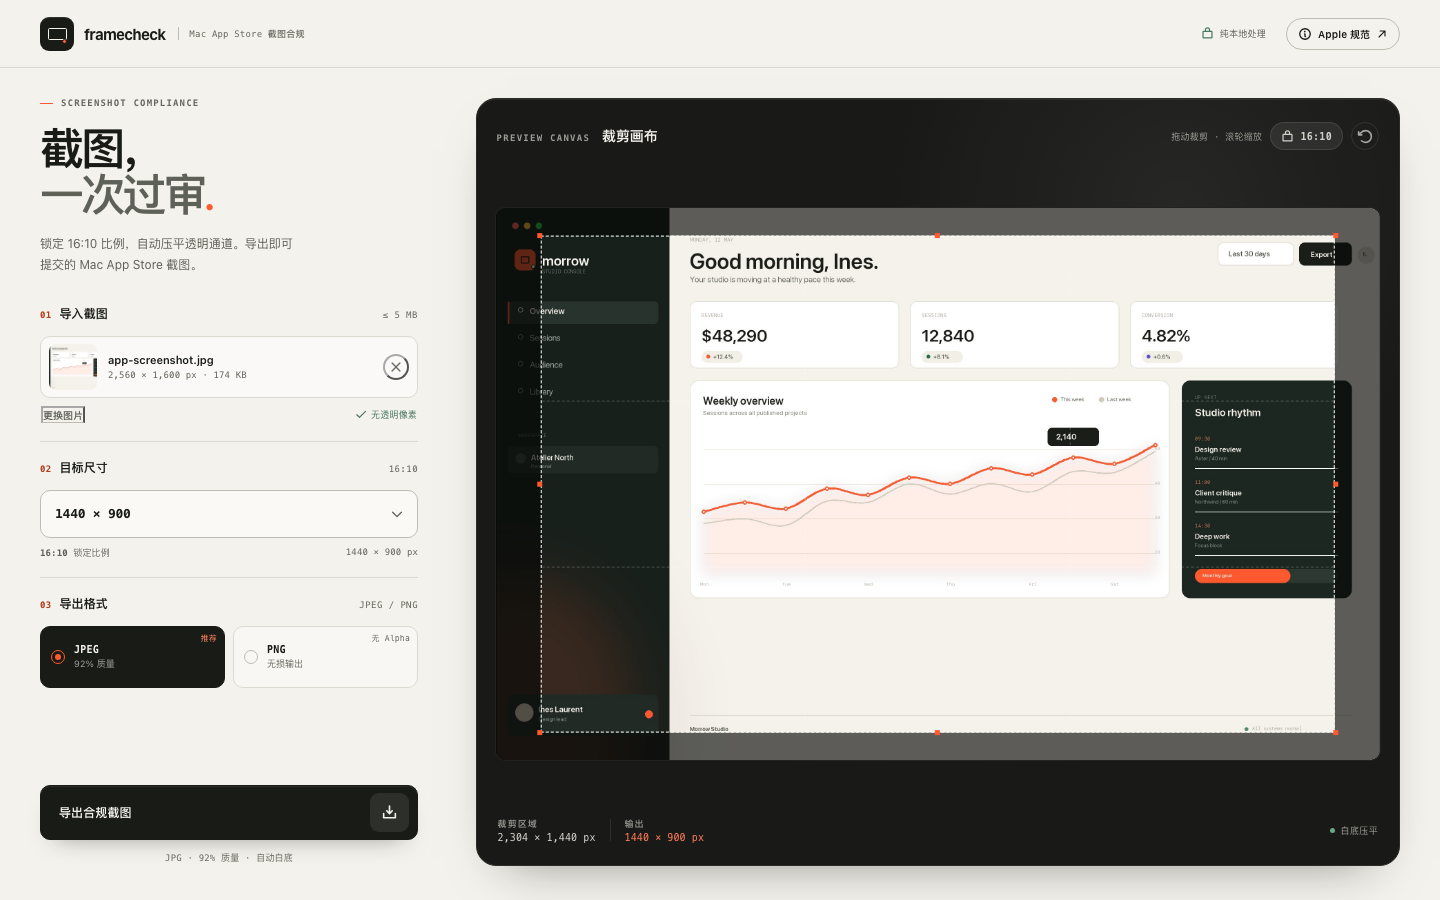
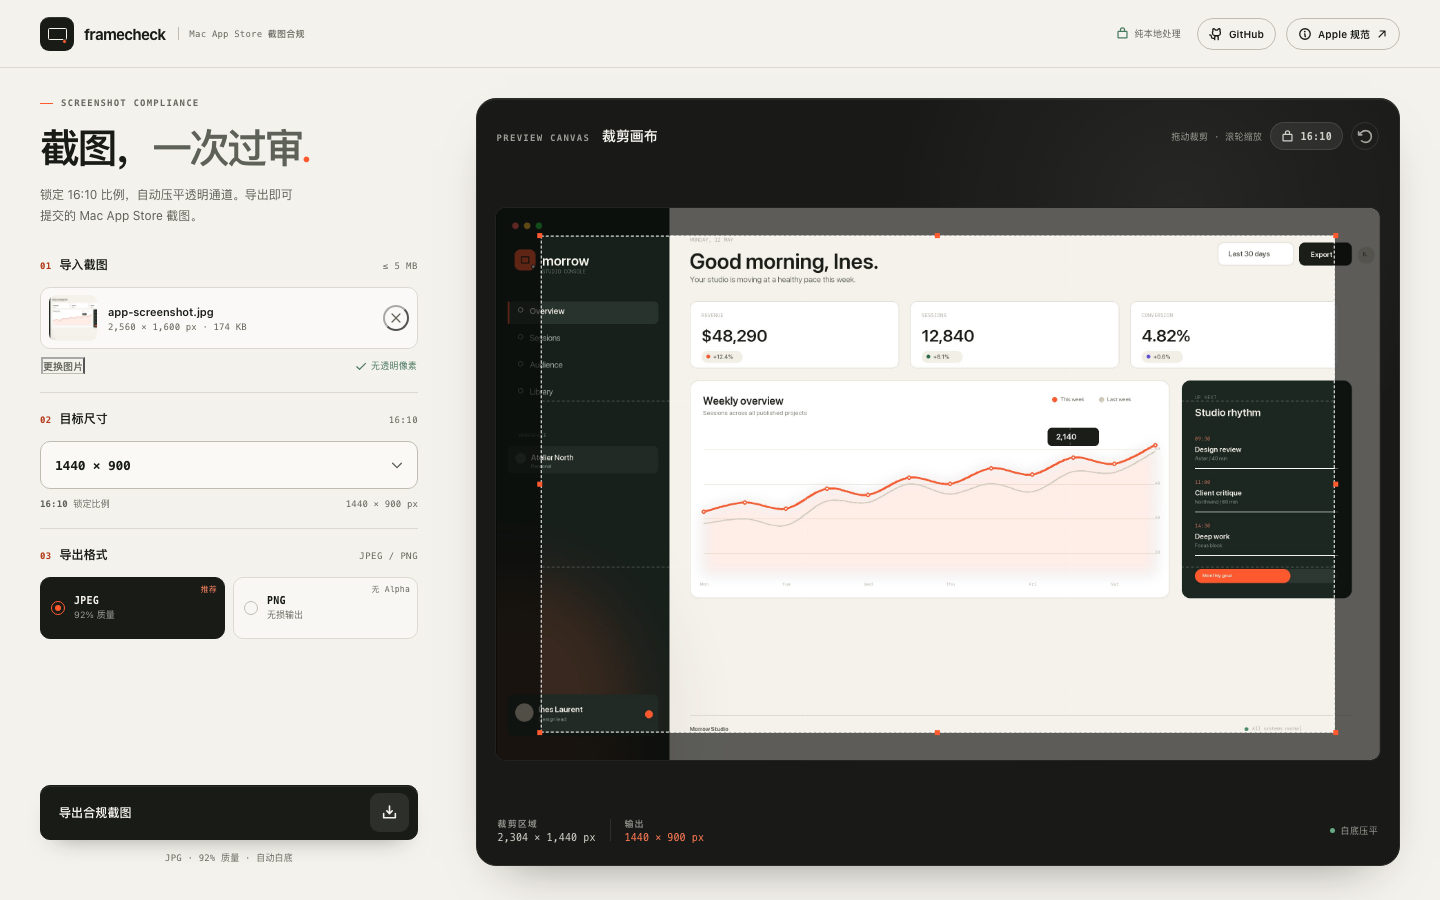
fix: remove duplicate import CTA and add repository link

diff --git a/src/components/CropStage.vue b/src/components/CropStage.vue
@@ -3,6 +3,7 @@ import { nextTick, onBeforeUnmount, ref, watch } from 'vue'
 import Cropper from 'cropperjs'
 import {
   PhArrowCounterClockwise as ArrowCounterClockwise,
+  PhFrameCorners as FrameCorners,
   PhLockSimple as LockSimple,
   PhUploadSimple as UploadSimple,
 } from '@phosphor-icons/vue'
@@ -24,7 +25,6 @@ const emit = defineEmits([
   'crop-change',
   'crop-error',
   'file-drop',
-  'pick-request',
   'ready',
 ])
 
@@ -408,10 +408,6 @@ function onDrop(event) {
   if (file) emit('file-drop', file)
 }
 
-function requestFilePicker() {
-  emit('pick-request')
-}
-
 watch(
   () => props.image?.url,
   async (url) => {
@@ -468,29 +464,18 @@ defineExpose({ renderExport, resetCrop })
         @dragleave.prevent="onDragLeave"
         @drop.prevent="onDrop"
       >
-        <button
-          v-if="!image"
-          class="stage-empty"
-          type="button"
-          @click="requestFilePicker"
-        >
+        <div v-if="!image" class="stage-empty">
           <span class="corner-mark corner-mark--tl" aria-hidden="true"></span>
           <span class="corner-mark corner-mark--tr" aria-hidden="true"></span>
           <span class="corner-mark corner-mark--bl" aria-hidden="true"></span>
           <span class="corner-mark corner-mark--br" aria-hidden="true"></span>
 
           <span class="empty-icon">
-            <UploadSimple :size="26" weight="light" aria-hidden="true" />
+            <FrameCorners :size="26" weight="light" aria-hidden="true" />
           </span>
-          <span class="empty-title">把截图放到这里</span>
-          <span class="empty-copy">
-            或点击选择文件
-            <span class="empty-divider" aria-hidden="true"></span>
-            JPEG / PNG
-            <span class="empty-divider" aria-hidden="true"></span>
-            最大 5 MB
-          </span>
-        </button>
+          <span class="empty-title">画布已准备就绪</span>
+          <span class="empty-copy">从左侧导入截图后，在这里调整构图</span>
+        </div>
 
         <div v-else ref="hostEl" class="cropper-host">
           <img
@@ -714,11 +699,6 @@ defineExpose({ renderExport, resetCrop })
   content: '';
   border: 1px dashed rgba(245, 243, 235, 0.17);
   border-radius: 5px;
-  transition: border-color 180ms ease;
-}
-
-.stage-empty:hover::before {
-  border-color: rgba(255, 90, 47, 0.55);
 }
 
 .empty-icon {
@@ -731,16 +711,6 @@ defineExpose({ renderExport, resetCrop })
   background: rgba(255, 255, 255, 0.055);
   border: 1px solid rgba(255, 255, 255, 0.12);
   border-radius: 50%;
-  transition:
-    color 180ms ease,
-    border-color 180ms ease,
-    transform 180ms ease;
-}
-
-.stage-empty:hover .empty-icon {
-  color: var(--accent);
-  border-color: rgba(255, 90, 47, 0.42);
-  transform: translateY(-2px);
 }
 
 .empty-title {
@@ -750,19 +720,11 @@ defineExpose({ renderExport, resetCrop })
 }
 
 .empty-copy {
-  display: inline-flex;
-  align-items: center;
-  gap: 9px;
+  max-width: 34ch;
   color: rgba(245, 243, 235, 0.64);
-  font-family: var(--font-mono);
   font-size: 10px;
-  letter-spacing: 0.03em;
-}
-
-.empty-divider {
-  width: 1px;
-  height: 10px;
-  background: rgba(245, 243, 235, 0.16);
+  line-height: 1.55;
+  letter-spacing: 0.01em;
 }
 
 .corner-mark {
@@ -1093,7 +1055,6 @@ defineExpose({ renderExport, resetCrop })
 }
 
 @media (prefers-reduced-motion: reduce) {
-  .stage-empty .empty-icon,
   .stage-icon-button,
   .crop-surface {
     transition: none;

diff --git a/src/App.vue b/src/App.vue
@@ -6,6 +6,7 @@ import {
   PhCheck as Check,
   PhCheckCircle as CheckCircle,
   PhDownloadSimple as DownloadSimple,
+  PhGithubLogo as GithubLogo,
   PhInfo as Info,
   PhLockSimple as LockSimple,
   PhUploadSimple as UploadSimple,
@@ -304,6 +305,17 @@ onBeforeUnmount(() => {
           <LockSimple :size="13" weight="bold" aria-hidden="true" />
           <span>纯本地处理</span>
         </span>
+        <a
+          class="repo-button"
+          href="https://github.com/cnliucheng/TopPicture"
+          target="_blank"
+          rel="noopener noreferrer"
+          aria-label="在 GitHub 查看 Framecheck 源码"
+          title="在 GitHub 查看源码"
+        >
+          <GithubLogo :size="14" weight="bold" aria-hidden="true" />
+          <span>GitHub</span>
+        </a>
         <button class="spec-button" type="button" @click="specRef?.open()">
           <Info :size="14" weight="bold" aria-hidden="true" />
           <span>Apple 规范</span>
@@ -320,8 +332,7 @@ onBeforeUnmount(() => {
             Screenshot compliance
           </p>
           <h1 id="page-title">
-            截图，<br />
-            <span>一次过审</span><em>.</em>
+            截图，<span>一次过审</span><em>.</em>
           </h1>
           <p class="lede">
             锁定 16:10 比例，自动压平透明通道。导出即可提交的 Mac App Store 截图。
@@ -543,7 +554,6 @@ onBeforeUnmount(() => {
         @crop-change="onCropChange"
         @crop-error="onCropError"
         @file-drop="handleFile"
-        @pick-request="openFilePicker"
         @ready="onCropReady"
       />
     </main>
@@ -666,13 +676,14 @@ onBeforeUnmount(() => {
   display: flex;
   flex: 0 0 auto;
   align-items: center;
-  gap: 20px;
+  gap: 10px;
 }
 
 .local-status {
   display: inline-flex;
   align-items: center;
   gap: 6px;
+  margin-right: 6px;
   color: var(--ink-soft);
   font-family: var(--font-mono);
   font-size: 9px;
@@ -684,6 +695,7 @@ onBeforeUnmount(() => {
   color: #487a61;
 }
 
+.repo-button,
 .spec-button {
   display: inline-flex;
   height: 32px;
@@ -693,6 +705,7 @@ onBeforeUnmount(() => {
   color: var(--ink);
   font-size: 10px;
   font-weight: 600;
+  text-decoration: none;
   background: transparent;
   border: 1px solid var(--line-strong);
   border-radius: 999px;
@@ -701,6 +714,7 @@ onBeforeUnmount(() => {
     border-color 160ms ease;
 }
 
+.repo-button:hover,
 .spec-button:hover {
   background: rgba(255, 255, 255, 0.54);
   border-color: var(--ink-soft);
@@ -750,10 +764,11 @@ onBeforeUnmount(() => {
 .intro h1 {
   margin: 0;
   color: var(--ink);
-  font-size: clamp(36px, 3.2vw, 44px);
+  font-size: clamp(30px, 2.9vw, 40px);
   font-weight: 610;
   letter-spacing: -0.065em;
-  line-height: 1.04;
+  line-height: 1.08;
+  white-space: nowrap;
 }
 
 .intro h1 span {
@@ -1551,6 +1566,7 @@ onBeforeUnmount(() => {
     display: none;
   }
 
+  .repo-button,
   .spec-button {
     height: 30px;
     padding: 0 9px;
@@ -1579,10 +1595,12 @@ onBeforeUnmount(() => {
 }
 
 @media (max-width: 400px) {
+  .repo-button span,
   .spec-button span:nth-child(2) {
     display: none;
   }
 
+  .repo-button,
   .spec-button {
     width: 32px;
     justify-content: center;

diff --git a/README.md b/README.md
@@ -4,6 +4,8 @@
 
 ![Framecheck 界面](docs/preview.png)
 
+**GitHub 仓库**：[cnliucheng/TopPicture](https://github.com/cnliucheng/TopPicture)
+
 ## 为什么需要它
 
 Mac App Store 对截图有硬性限制：
